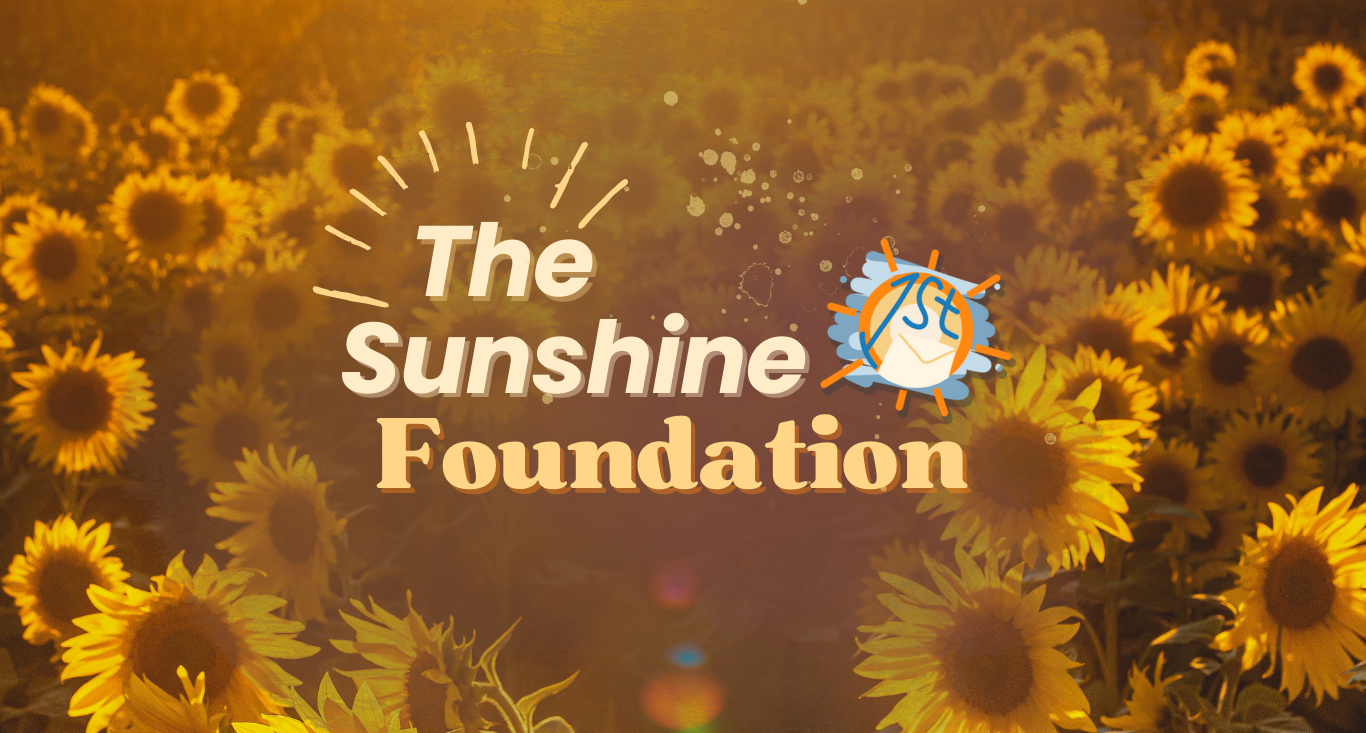
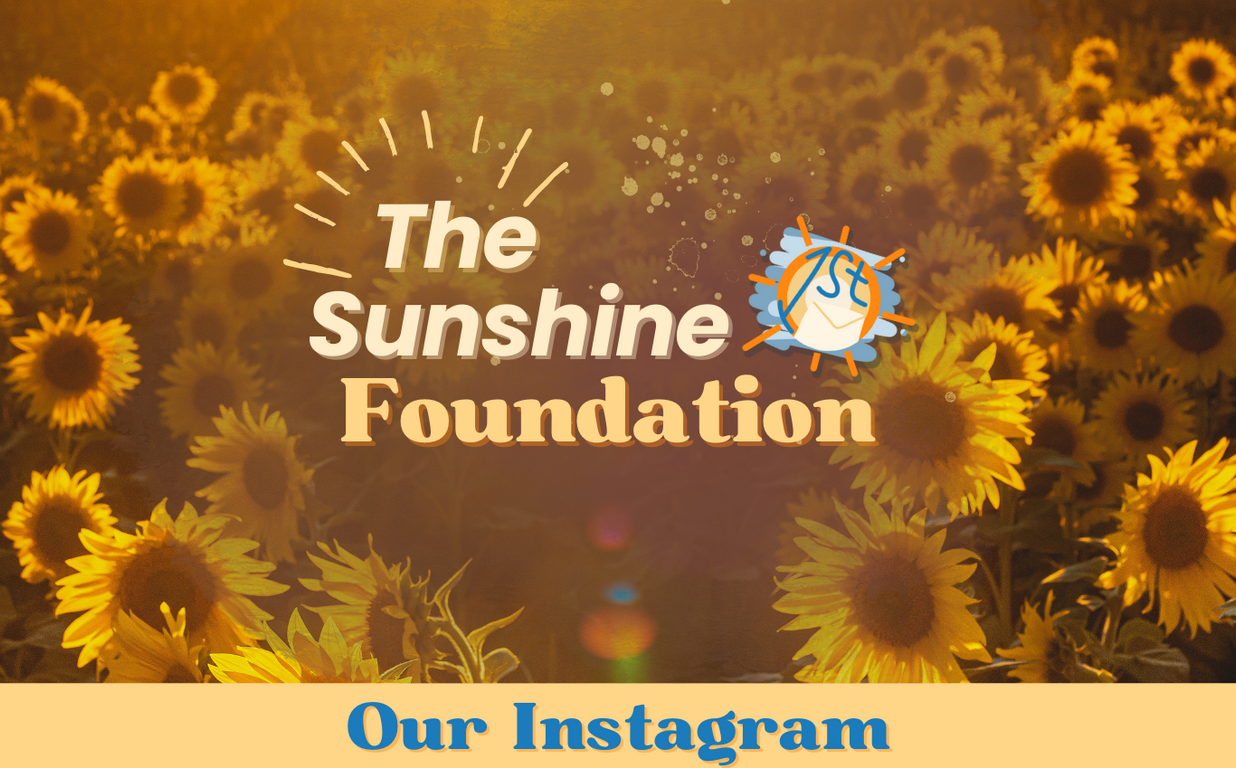
Add files via upload

diff --git a/index.html b/index.html
@@ -24,7 +24,7 @@
             width: 100%;
             z-index: 1;
             position: fixed;
-            border-bottom: 2px solid black; /* Added black border to the navbar */
+            border-bottom: 2px solid black;
         }
 
         .navbar a {
@@ -33,7 +33,7 @@
             margin: 0 15px;
             padding: 5px;
             transition: color 0.3s;
-            font-weight: bold; /* Bold the home text */
+            font-weight: bold;
         }
 
         .navbar a:hover {
@@ -41,14 +41,14 @@
         }
 
         .navbar a:not(:first-child) {
-            font-weight: normal; /* Unbold the additional text links */
+            font-weight: normal;
         }
 
         .image-container {
             width: 100%;
             box-sizing: border-box;
             overflow: hidden;
-            display: none; /* Hide all image containers by default */
+            display: none;
         }
 
         img {
@@ -57,9 +57,28 @@
             object-fit: cover;
             display: block;
             margin: 0;
+            transition: transform 0.3s ease-in-out;
         }
 
-        /* Change scrollbar color */
+        .beige-background {
+            background-color: rgb(255, 213, 136);
+            width: 100%;
+            height: 600px;
+            display: flex;
+            align-items: center;
+            justify-content: center;
+        }
+
+        .beige-background a {
+            display: inline-block;
+            overflow: hidden;
+            margin: 0 10px; /* Adjust the margin as needed */
+        }
+
+        .beige-background a:hover img {
+            transform: scale(1.1);
+        }
+
         body::-webkit-scrollbar {
             width: 16px;
         }
@@ -88,34 +107,43 @@
     <div class="image-container page" id="home">
         <!-- Keep the other images -->
         <img src="Website (21).png">
-        <img src="Website (13).png">
+        
+        <!-- Beige background between image 21 and image 13 -->
+        <div class="beige-background">
+            <a href="https://www.instagram.com/p/C0g9QdPOgHi/?img_index=1" target="_blank">
+                <img src="Post1.png" alt="Post1 Image" style="width: 400px; height: 400px;"> 
+            </a>
+            <a href="https://www.instagram.com/p/C2Lxrq8ud9b/?img_index=1" target="_blank">
+                <img src="Post2.png" alt="Post2 Image" style="width: 400px; height: 400px;"> 
+            </a>
+            <a href="https://www.instagram.com/p/C0VDVIAxIN2/?img_index=1" target="_blank">
+                <img src="Post3.png" alt="Post3 Image" style="width: 400px; height: 400px;"> 
+            </a>
+        </div>
+
         <img src="Website (19).png">
-        <img src="Website (15).png">
         <img src="Website (16).png">
         <img src="Website (23).png">
     </div>
     
     <!-- Separate Page for Website 17 Image -->
     <div class="image-container page" id="about">
+        <img src="Website (15).png">
         <img src="Website (22).png">
     </div>
 
     <!-- Other pages... -->
 
     <script>
-        // JavaScript to handle page switching
         function showPage(pageId) {
-            // Hide all pages
             var pages = document.getElementsByClassName('page');
             for (var i = 0; i < pages.length; i++) {
                 pages[i].style.display = 'none';
             }
 
-            // Show the selected page
             document.getElementById(pageId).style.display = 'block';
         }
 
-        // Show 'home' page by default
         showPage('home');
     </script>
 </body>
